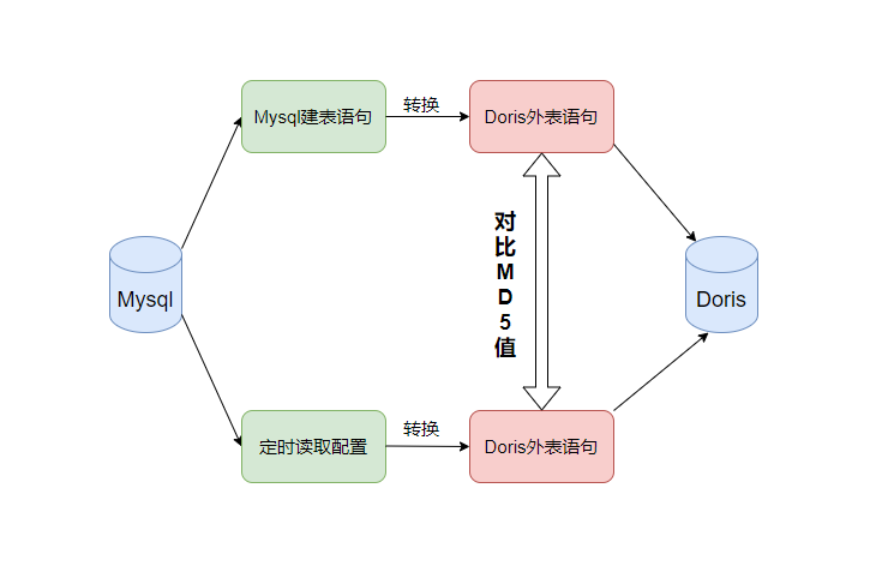
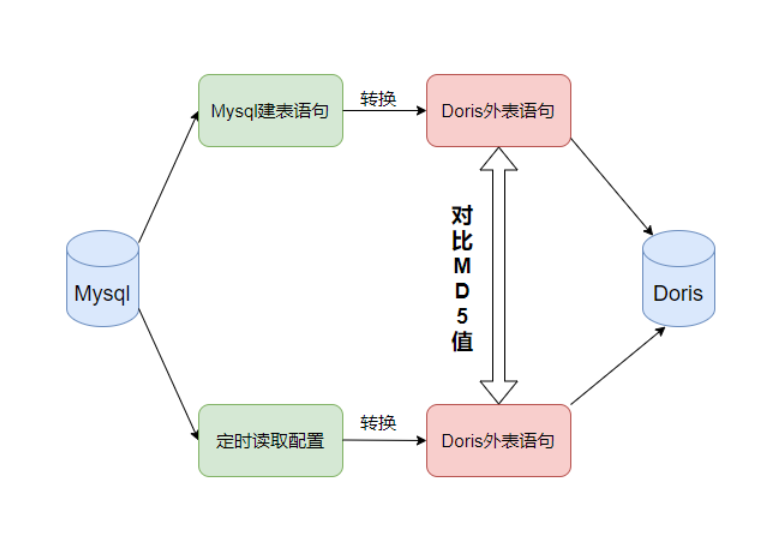
alter png three

diff --git a/Readme.md b/Readme.md
@@ -3,8 +3,7 @@
 
 ###1、结构图
 
-![1665235406377](C:\Users\86138\AppData\Roaming\Typora\typora-user-images\1665235406377.png)
-
+![img.png](img.png)
 
 ```shell
     mysql_to_rocks/
